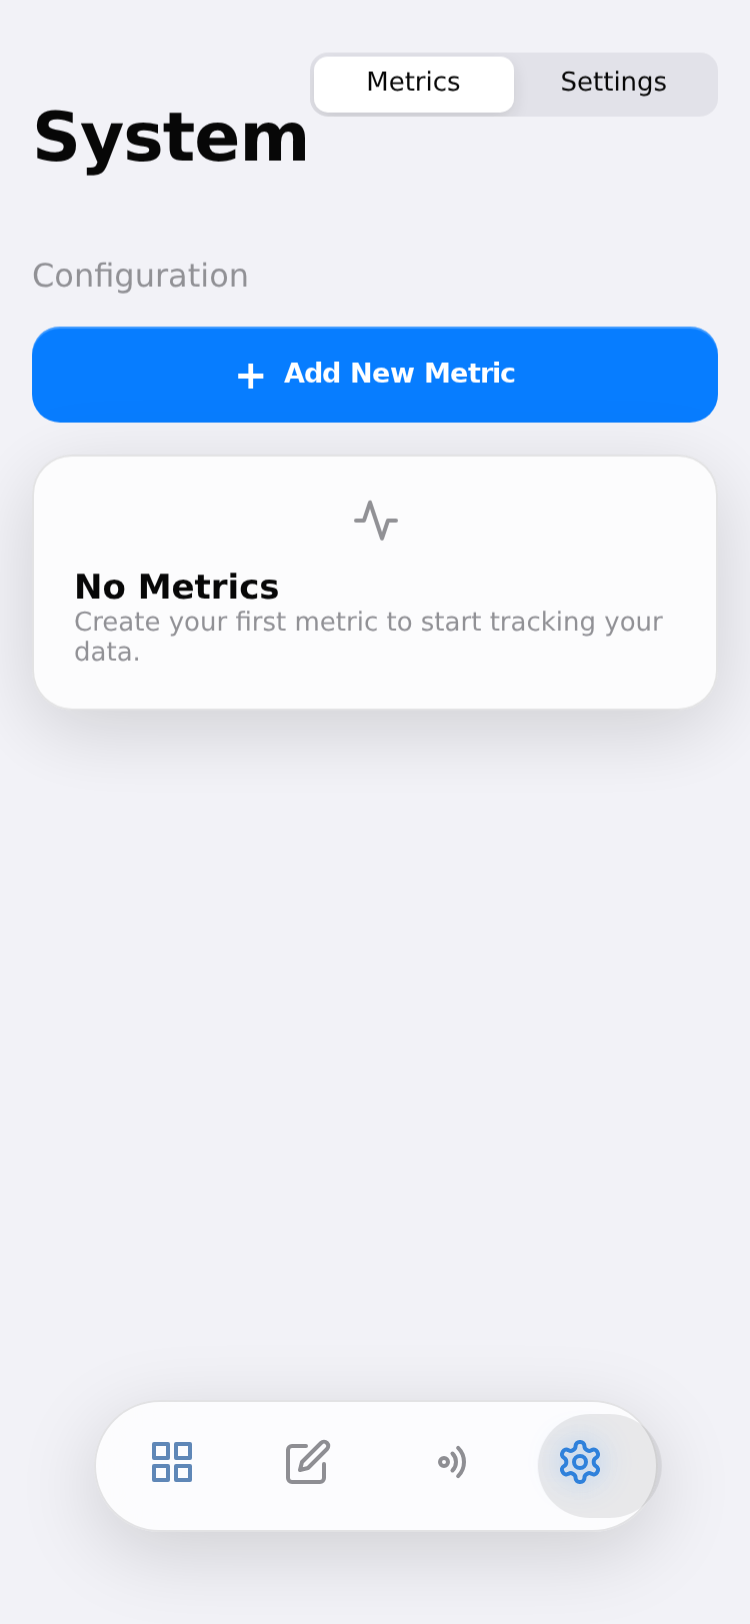
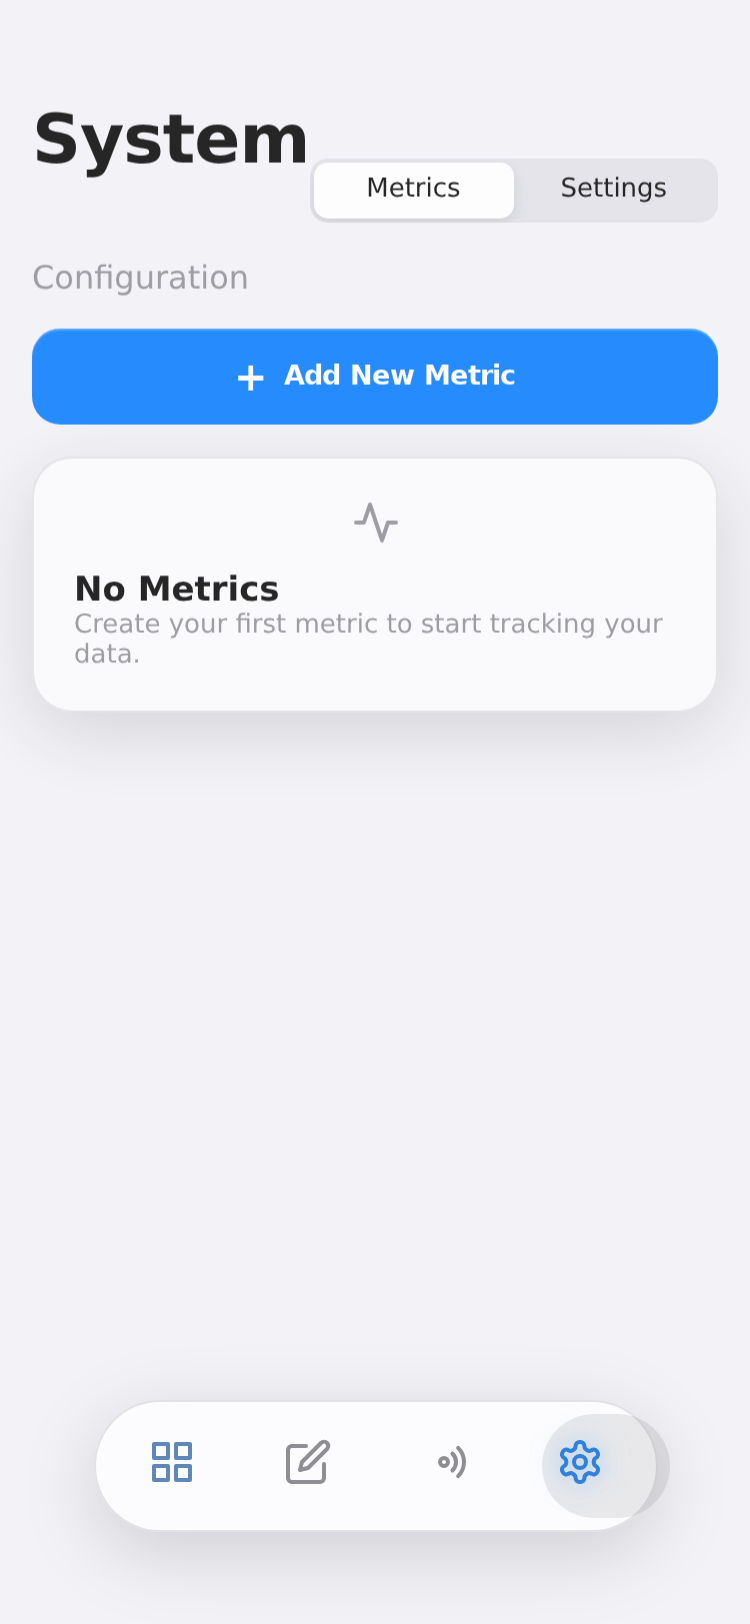
Refactor System CSS to use semantic classes and fix layout issues
- Create `src/styles/system.css` for semantic system view styles
- Refactor System.jsx header to use `.system-header` class with correct alignment
- Refactor DataManagement.jsx to use semantic classes (`.section-label`, `.section-archival`, `.section-export`, `.button-row`)
- Fix vertical alignment in System header (items-center)
- Fix spacing in DataManagement for Archival and Export sections
- Fix button row spacing and storage track visualization
- Verify changes with Playwright screenshots

diff --git a/src/components/system/DataManagement.jsx b/src/components/system/DataManagement.jsx
@@ -163,9 +163,9 @@ export const DataManagement = () => {
           <span>Local Storage</span>
           <span>{percent}%</span>
         </div>
-        <div className="w-full h-2 bg-separator/20 rounded-full overflow-hidden">
+        <div className="storage-track-container">
           <div
-            className={`h-full transition-all duration-500 ${percentNum > 80 ? 'bg-red-500' : 'bg-blue-500'}`}
+            className={`h-full transition-all duration-500`}
             style={{
               width: `${percent}%`,
               backgroundColor: percentNum > 80 ? 'var(--red)' : 'var(--blue)'
@@ -177,8 +177,8 @@ export const DataManagement = () => {
         </div>
       </div>
 
-      <div className="section-label">Archival Engine</div>
-      <p className="text-secondary text-sm mb-6 mt-1 leading-relaxed">
+      <div className="section-label section-archival">Archival Engine</div>
+      <p className="text-secondary text-sm archival-description leading-relaxed">
         Offload data older than 1 year to a JSON file and remove it from local storage to free up space.
       </p>
 
@@ -191,7 +191,7 @@ export const DataManagement = () => {
         Archive Old Data
       </OrbitButton>
 
-      <div className="section-label mt-6">Universal Export</div>
+      <div className="section-label section-export">Universal Export</div>
       <div className="flex flex-col gap-3">
          <OrbitButton
             onClick={handleExportJSON}
@@ -214,7 +214,7 @@ export const DataManagement = () => {
 
       <div className="border-t border-separator/50 my-6" />
 
-      <div className="flex gap-3">
+      <div className="button-row">
            <OrbitButton
              onClick={handleImportClick}
              variant="secondary"

diff --git a/src/styles/system.css b/src/styles/system.css
@@ -1,0 +1,67 @@
+/* src/styles/system.css */
+
+/* System Header - Fixes Alignment */
+.system-header {
+  display: flex;
+  justify-content: space-between;
+  align-items: center; /* Fixes vertical alignment */
+}
+
+/* Data Management Spacing Fixes */
+.section-label {
+  font-size: 15px; /* text-md equivalent */
+  font-weight: 600; /* font-semibold */
+  color: var(--text-primary);
+  margin-bottom: 8px; /* Standard gap */
+}
+
+/* Archival Engine Spacing */
+.section-archival {
+  margin-top: 24px;   /* Increased from implied default */
+  margin-bottom: 4px; /* Tighter to description */
+}
+
+.archival-description {
+  margin-top: 0;      /* Remove default p margin if any */
+  margin-bottom: 24px;
+}
+
+/* Universal Export Crowding */
+.section-export {
+  margin-top: 32px; /* Significant gap (approx 1.5rem+) */
+}
+
+/* Button Row Layout */
+.button-row {
+  display: flex;
+  gap: 12px; /* 12px gap between buttons */
+  width: 100%;
+}
+
+/* Storage Meter Track Override */
+.storage-track {
+  width: 100%;
+  height: 8px;
+  background-color: var(--separator);
+  opacity: 0.2; /* To simulate bg-separator/20 */
+  border-radius: 9999px;
+  overflow: hidden;
+}
+
+/* Note: The 'opacity' above affects children if not careful.
+   Better to use rgba or variable if possible.
+   However, since we are constrained to vanilla CSS and existing variables:
+*/
+.storage-track-container {
+    width: 100%;
+    height: 8px;
+    background-color: rgba(60, 60, 67, 0.1); /* Light mode separator approx */
+    border-radius: 9999px;
+    overflow: hidden;
+}
+
+@media (prefers-color-scheme: dark) {
+    .storage-track-container {
+        background-color: rgba(84, 84, 88, 0.25); /* Dark mode separator approx */
+    }
+}

diff --git a/src/views/System.jsx b/src/views/System.jsx
@@ -79,7 +79,7 @@ export const System = ({ onNavigate }) => {
     <div className="flex flex-col gap-6 p-4 pb-32 fade-in">
       
       {/* Header */}
-      <div className="flex justify-between items-end safe-mt">
+      <div className="system-header safe-mt">
          <div className="flex flex-col">
              <h1 className="text-3xl font-extrabold tracking-tight">System</h1>
              <p className="text-secondary font-medium">Configuration</p>

diff --git a/src/styles/index.css b/src/styles/index.css
@@ -4,6 +4,7 @@
 @import "./layout.css";
 @import "./segmented.css";
 @import "./buttons.css";
+@import "./system.css";
 
 *,
 *::before,
